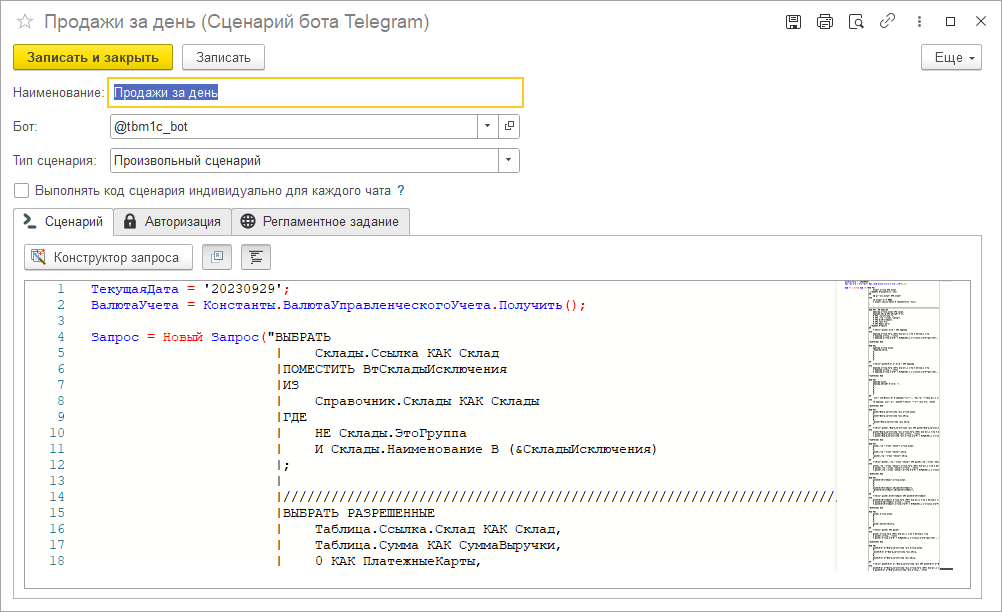
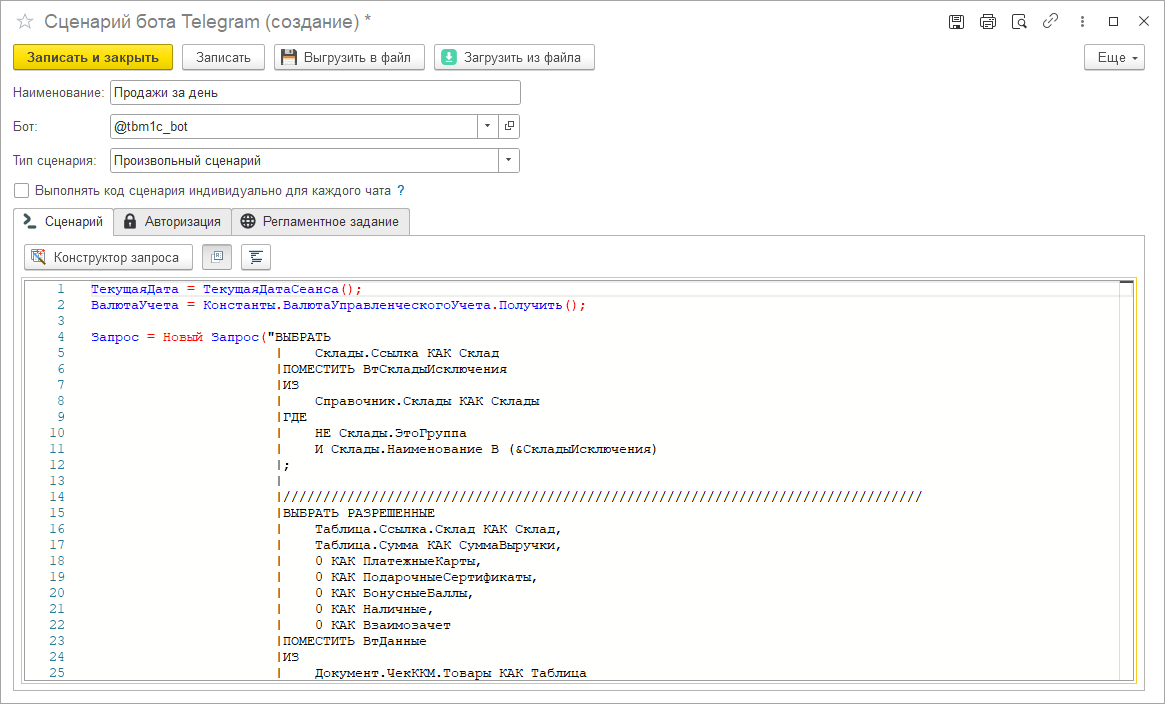
docs: Обновлена документация

Changed region(s): [[0.0, 0.0, 0.99, 0.9935], [0.7735, 0.0, 0.8972, 0.0621], [0.9281, 0.0621, 0.99, 0.1242]]

diff --git a/documentation/docs/structure/scripts.md b/documentation/docs/structure/scripts.md
@@ -22,3 +22,7 @@ keywords: [1С, Telegram, бот, сценарии, конструктор]
 :::warning Чаты с типом "Общение"
 Обратите внимание, что сценарии типа "Общение" всегда исполняются индивидуально начиная со второго этапа.
 :::
+
+## Импорт / экспорт сценариев
+
+Для того чтобы быстро передать собранный сценарий из одной информационной базы в другую, можно воспользоваться специальными кнопками импорта и экспорта сценария, расположенными в верхней панели формы элемента. Файл обмена выгружается в формате JSON.

diff --git a/documentation/docs/usage-guide/message-form/message-form.md b/documentation/docs/usage-guide/message-form/message-form.md
@@ -1,6 +1,6 @@
 ---
 sidebar_position: 12
-title: Форма передачи сообщений
+title: 🔥 Форма передачи сообщений
 description: Использование стандартной формы БСП для передачи сообщений, печатных форм и отчетов в чаты Telegram из 1С
 keywords: [1С, Telegram, отправка сообщений, печатные формы, отчеты]
 ---
